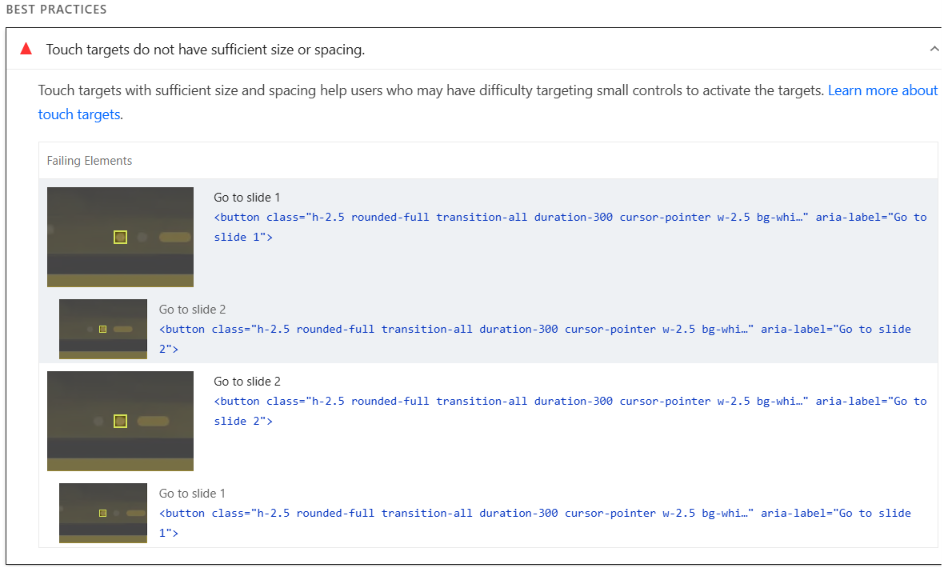
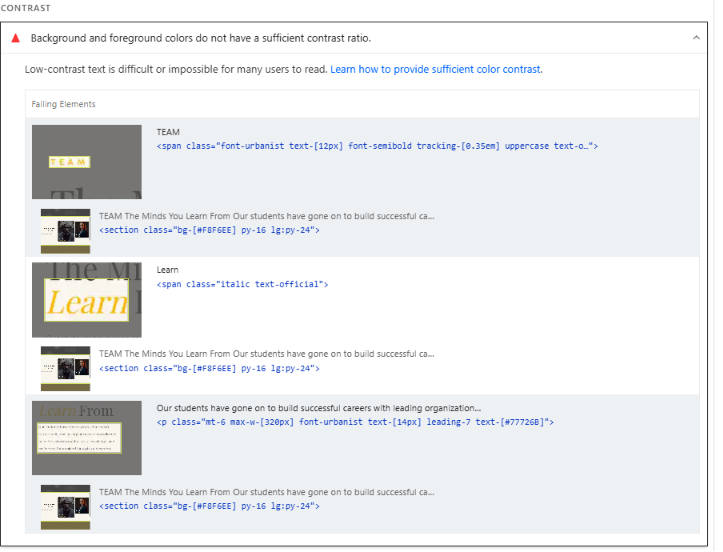
Optimization in progress

Changed region(s): [[0.0, 0.0, 1.0, 1.0]]

diff --git a/src/components/About/TeamSection.jsx b/src/components/About/TeamSection.jsx
@@ -61,7 +61,7 @@ const TeamSection = ({ data }) => {
 
                          {/* LEFT CONTENT */}
                          <div>
-                              <span className="font-urbanist text-[12px] font-semibold tracking-[0.35em] uppercase text-official">
+                              <span className="font-urbanist text-[12px] font-semibold tracking-[0.35em] uppercase text-[#8F6A00]">
                                    {title}
                               </span>
 
@@ -69,14 +69,14 @@ const TeamSection = ({ data }) => {
                                    {startheading}
                                    <br />
                                    {midheading && (
-                                        <span className="italic text-official">
+                                        <span className="italic text-[#8F6A00]">
                                              {midheading}
                                         </span>
                                    )}
                                    {endheading && <>{endheading.startsWith(" ") ? "" : " "}{endheading}</>}
                               </h2>
 
-                              <p className="mt-6 max-w-[320px] font-urbanist text-[14px] leading-7 text-[#77726B]">
+                              <p className="mt-6 max-w-[320px] font-urbanist text-[14px] leading-7 text-[#5A5652]">
                                    {description}
                               </p>
                          </div>

diff --git a/src/components/About/FeatureStrip.jsx b/src/components/About/FeatureStrip.jsx
@@ -100,9 +100,9 @@ export default function FeatureStrip({ data }) {
                                         {item.icon}
                                    </div>
                                    <div>
-                                        <h3 className="font-serif text-[22px] leading-tight text-black lg:text-[28px]">
+                                        <h2 className="font-serif text-[22px] leading-tight text-black lg:text-[28px]">
                                              {item.title}
-                                        </h3>
+                                        </h2>
 
                                         {item.subtitle && (
                                              <p className="font-serif text-[22px] leading-tight text-black lg:text-[28px]">

diff --git a/src/components/About/Hero.jsx b/src/components/About/Hero.jsx
@@ -17,6 +17,8 @@ export default function Hero({ data }) {
                          alt="weekend-ux-location-hero-bg"
                          className="absolute inset-0 w-full h-full object-cover object-center opacity-60 z-0"
                          sizes="100vw"
+                         priority={true}
+                         fetchPriority="high"
                     />
                     {/* Content */}
                     <span className="font-urbanist text-[11px] font-bold uppercase tracking-[0.45em] relative z-50 text-official">

diff --git a/Issues.md b/Issues.md
@@ -1,1 +1,1 @@
-![alt text](image-12.png)
+![alt text](image.png)